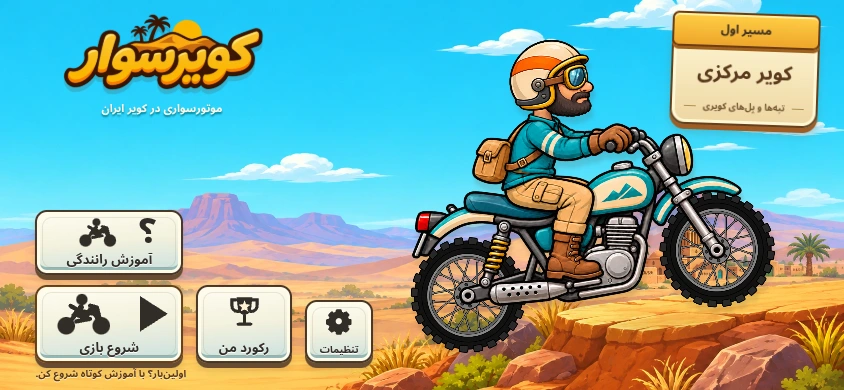
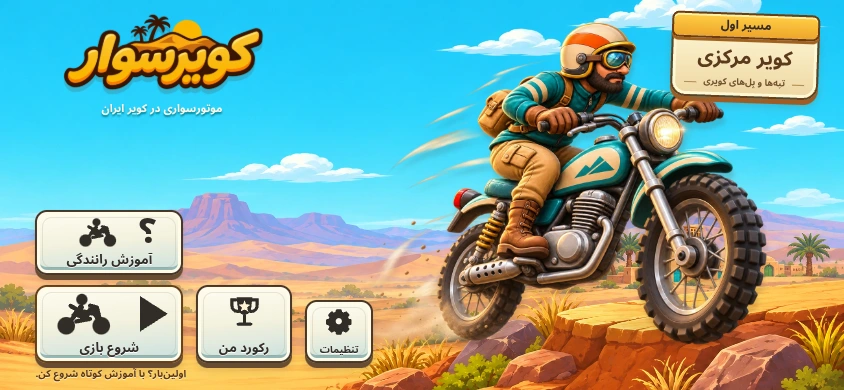
Use rendered three-quarter jump illustration for home hero
Replace the menu sprite assembly with a dedicated airborne illustration inspired by the reference pose. Preserve the turquoise bike and rider identity; add cinematic light, headlamp gleam and translucent sand/speed trails. Package as a 447 KB alpha WebP and keep route plaque clear on mobile.

Validation: TypeScript, production build, four viewport UI flows, final desktop/mobile captures and zero browser errors.

Changed region(s): [[0.4313, 0.0308, 0.9858, 0.9231], [0.4313, 0.6769, 0.4621, 0.7077]]

diff --git a/src/styles/game.css b/src/styles/game.css
@@ -1065,13 +1065,13 @@ body,
 .home-title { margin:0; line-height:0; }
 .home-title img { width:100%; height:auto; display:block; filter:drop-shadow(0 5px 0 #58342130); }
 .home-brand p { margin:7px 0 0; color:#fff9e9; font-weight:800; font-size:clamp(11px,1.25vw,18px); letter-spacing:.02em; text-shadow:0 2px 2px #00798c; }
-.home-route-plaque { position:absolute; top:max(4.5vh,env(safe-area-inset-top)); right:max(3vw,env(safe-area-inset-right)); width:clamp(145px,15vw,225px); text-align:center; padding:0 13px 11px; border:2px solid #65401e; border-radius:15px; background:linear-gradient(#fff9d8,#eed6a2); box-shadow:inset 0 0 0 3px #fff7d3,0 5px 0 #9e5d25,0 8px 9px #7c461c30; transform:rotate(2deg); }
+.home-route-plaque { line-height:1.35; position:absolute; top:max(4.5vh,env(safe-area-inset-top)); right:max(3vw,env(safe-area-inset-right)); width:clamp(145px,15vw,225px); text-align:center; padding:0 13px 11px; border:2px solid #65401e; border-radius:15px; background:linear-gradient(#fff9d8,#eed6a2); box-shadow:inset 0 0 0 3px #fff7d3,0 5px 0 #9e5d25,0 8px 9px #7c461c30; transform:rotate(2deg); }
 .home-route-number { display:block; margin:-7px -10px 7px; border:2px solid #6d3c13; border-radius:7px; background:linear-gradient(#ffcf45,#eea52b); box-shadow:inset 0 2px #fff0a4,0 3px 0 #a0621e; font-weight:900; font-size:clamp(11px,1.25vw,17px); padding:3px 0; }
-.home-route-plaque strong { display:block; font-size:clamp(18px,2vw,28px); font-weight:900; color:#5a391d; }
+.home-route-plaque strong { line-height:1.5; display:block; font-size:clamp(18px,2vw,28px); font-weight:900; color:#5a391d; }
 .home-route-line { display:flex; align-items:center; justify-content:center; gap:7px; margin-top:4px; font-size:clamp(9px,.9vw,12px); font-weight:700; color:#725330; }
 .home-route-line i { width:12px; height:1px; background:#b18e52; }
 .home-rider { position:absolute; width:61%; height:88%; right:3%; top:4%; pointer-events:none; z-index:-1; }
-.home-rider-canvas { width:100%; height:100%; object-fit:contain; filter:drop-shadow(2px 7px 2px #562f1826); }
+.home-rider-image { width:100%; height:100%; object-fit:contain; filter:drop-shadow(2px 7px 2px #562f1826); }
 .home-rider-shadow { position:absolute; width:32%; height:3.5%; top:84%; right:13%; border-radius:50%; background:#82522d32; filter:blur(8px); transform:rotate(-5deg); z-index:-2; pointer-events:none; }
 .home-menu { direction:ltr; position:absolute; left:max(4.2vw,env(safe-area-inset-left)); bottom:max(6.5vh,calc(env(safe-area-inset-bottom) + 12px)); display:grid; grid-template-columns:clamp(162px,16.5vw,245px) clamp(110px,10.5vw,156px) clamp(72px,7.2vw,108px); grid-template-rows:clamp(76px,13.5vh,120px) clamp(88px,15.5vh,138px); gap:clamp(10px,1.3vw,20px); align-items:end; }
 .home-tile { color:#312c28; cursor:pointer; position:relative; border:2px solid #483729; border-radius:16px; background:linear-gradient(175deg,#fffdf2 0%,#f3f1dd 48%,#c9e0df 100%); box-shadow:inset 0 0 0 3px #fffbe9,inset 0 -6px 0 #95b7b6,0 5px 0 #684c32,0 8px 8px #6d3c2026; padding:9px 10px 7px; font-family:inherit; display:flex; flex-direction:column; align-items:center; justify-content:space-between; height:100%; min-height:48px; transition:transform 80ms,filter 80ms,box-shadow 80ms; direction:rtl; touch-action:manipulation; }
@@ -1125,3 +1125,10 @@ body,
   .home-footnote { left:6%; bottom:3%; }
 }
 @media (prefers-reduced-motion:reduce) { .home-tile { transition:none; } }
+
+@media (max-width:700px) and (orientation:landscape) {
+  .home-route-plaque { width:120px; padding-bottom:6px; }
+  .home-route-plaque strong { font-size:17px; }
+  .home-route-number { font-size:10px; }
+  .home-route-line { font-size:8px; gap:4px; }
+}

diff --git a/src/ui/HomeRiderArt.tsx b/src/ui/HomeRiderArt.tsx
@@ -1,44 +1,12 @@
-import React, { useEffect, useRef } from 'react';
-import { RIDER_SPRITE as R } from '../bike/riderSpriteGeometry';
+import React from 'react';
 
-/** Uses the approved gameplay sprites, including the corrected neck registration. */
-export const HomeRiderArt: React.FC = () => {
-  const ref = useRef<HTMLCanvasElement>(null);
-  useEffect(() => {
-    const canvas = ref.current;
-    if (!canvas) return;
-    let active = true;
-    const images = ['body', 'head', 'wheel'].map(name => {
-      const image = new Image();
-      image.src = new URL(`./assets/art/rider-v6/${name}.png`, document.baseURI).href;
-      return image;
-    });
-    void Promise.all(images.map(image => image.decode())).then(() => {
-      if (!active) return;
-      const ctx = canvas.getContext('2d');
-      if (!ctx) return;
-      const [body, head, wheel] = images;
-      ctx.clearRect(0, 0, canvas.width, canvas.height);
-      ctx.save();
-      ctx.translate(800, 625);
-      ctx.rotate(-0.18);
-      ctx.translate(-792, -555);
-      for (const axle of [R.rearAxle, R.frontAxle]) {
-        ctx.save();
-        ctx.translate(axle.x, axle.y);
-        ctx.scale(203 / R.wheelRadius, 203 / R.wheelRadius);
-        ctx.drawImage(wheel, -R.wheelCenter.x, -R.wheelCenter.y);
-        ctx.restore();
-      }
-      ctx.drawImage(body, 0, 0);
-      ctx.translate(R.headOffset.x, R.headOffset.y);
-      ctx.scale(R.headScale.x, R.headScale.y);
-      ctx.drawImage(head, 0, 0);
-      ctx.restore();
-    }).catch(() => {
-      // Keep navigation available if the decorative image cannot decode.
-    });
-    return () => { active = false; };
-  }, []);
-  return <canvas ref={ref} width={1600} height={1250} className="home-rider-canvas" role="img" aria-label="موتورسوار کویرسوار با موتور فیروزهای در حال پرش" />;
-};
+/** Dedicated title-screen illustration, independent of the gameplay sprite rig. */
+export const HomeRiderArt: React.FC = () => (
+  <img
+    src={new URL('./assets/art/home/hero-jump.webp', document.baseURI).href}
+    className="home-rider-image"
+    alt="تصویر نمایشی موتور فیروزهای کویرسوار در پرش سهرخ، با نور طلایی و رد گردوخاک"
+    draggable={false}
+    decoding="async"
+  />
+);

diff --git a/docs/home-menu/README.md b/docs/home-menu/README.md
@@ -4,8 +4,10 @@ A full-screen menu based on the supplied racing-game reference: upper-left wordm
 
 Working actions: start (preserves first-run tutorial), replay driving tutorial, view the existing locally stored best time, and open existing settings. The record dialog traps focus with native modal behavior, closes with Escape or its return button, and restores focus. No store, fake countdown, multiplayer or tournament functionality is implied.
 
-The rider is rendered once from the approved body, head and wheel PNGs with v6 neck registration. It does not add an idle head animation or modify the physics rig. All menu imagery ships locally and works offline in the development web/Capacitor build. Added runtime environment/logo textures total approximately 357 KiB.
+The rider is a dedicated rendered title-screen illustration, not the gameplay sprite assembly. It depicts the same turquoise motorcycle, bearded rider, cream/orange helmet and tan riding clothes in a foreshortened front three-quarter jump with golden rim lighting, headlamp gleam, translucent dust and speed streaks. The PNG has genuine alpha and is packaged as high-quality WebP. It does not modify the gameplay artwork, head dynamics, suspension or physics. All menu imagery ships locally and works offline in the development web/Capacitor build. Environment and logo textures total approximately 357 KiB.
 
 `preview.webp` is the actual rendered 1536×707 menu; `mobile-preview.webp` is the actual rendered 844×390 menu. UI checks cover 640×360, 844×390, 1280×720 and 1536×707, minimum 48px targets, menu target separation, tutorial/race transitions, settings, empty records and Escape dismissal. Existing 40 physics/gameplay tests pass, along with TypeScript and production build.
 
 Artwork: built-in image generation, guided by the user-supplied original KavirSavar scene. Environment prompt: panoramic painted 2D Iranian central desert, clear turquoise sky for top-left logo and large center-right rider, distant lavender mesas, golden dunes, small adobe windcatcher village and palms, bottom rocky ledge, no characters, text or UI. Logo prompt: exact Persian word «کویرسوار», amber front faces, chocolate outline, orange lower shadow, tiny dune, rising sun and two date palms, transparent background, no plaque or subtitle. PNG generation masters are retained separately; optimized WebP files are in `public/assets/art/home`.
+
+The hero generation prompt and design constraints are recorded in `hero-art-direction.md`. The hero is static artwork; its built-in light/dust effects are part of that illustration.

diff --git a/docs/home-menu/hero-art-direction.md b/docs/home-menu/hero-art-direction.md
@@ -1,0 +1,1 @@
+Use case: stylized-concept / compositing. Create a NEW premium title-screen hero illustration of the existing KavirSavar rider and motorcycle, isolated on genuine transparent alpha. Image 1 (Bike Race menu) is ONLY the reference for the dynamic 3/4 jumping pose, strong foreshortening and polished softly 3D game-poster rendering. Image 2 (turquoise bike with bearded rider, side view) is the exact CHARACTER AND MOTORCYCLE DESIGN reference: preserve his cream helmet with orange band, gold/blue goggles, visible black beard and nose, turquoise jacket with two cream sleeve bands, tan cargo trousers, brown boots and gloves, small tan backpack; preserve turquoise-and-cream vintage scrambler motorcycle, mountain emblem on cream tank, round chrome headlamp, shiny metal engine/exhaust, golden rear shocks, spoked black off-road tires. NO SCARF. Reimagine this exact design as a NEW beautifully rendered airborne promotional illustration, not the flat side-on gameplay sprite. Low-angle FRONT THREE-QUARTER view, front wheel dramatically larger and closer at LOWER RIGHT, rear wheel receding LOWER LEFT, rider upper center, leaning into handlebars, elbows bent, knees grip bike, both hands/feet anatomically attached. Motorcycle leaping toward viewer and right, both tires fully off ground, slight bank and suspension extension. Premium stylized mobile-racing splash art: rounded modeled volumes, rich detailed materials, warm golden sunlight rim on helmet and metal, cooler soft blue bounce on turquoise paint, precise mechanical construction and perspective, high clarity. Add restrained translucent cream/gold speed streaks and a soft sandy dust trail fanning behind to LEFT/LOWER LEFT, tiny airborne sand particles and subtle front headlamp gleam, all effects contained around the subject. Keep silhouette readable, no giant opaque dust cloud. Center subject on a landscape 1536x1024 canvas with safe padding so ALL wheels, helmet and effects fit; subject fills around 80% of height. NO environment, no road or rock, no typography, no logo, no buttons, no frame. Actual transparent background including around translucent dust. Do not copy the red bike, motocross race suit or full-face helmet from image 1. Keep design of image 2 recognizably the same, but use the cinematic 3/4 perspective and rendered illustrated presentation of image 1.
